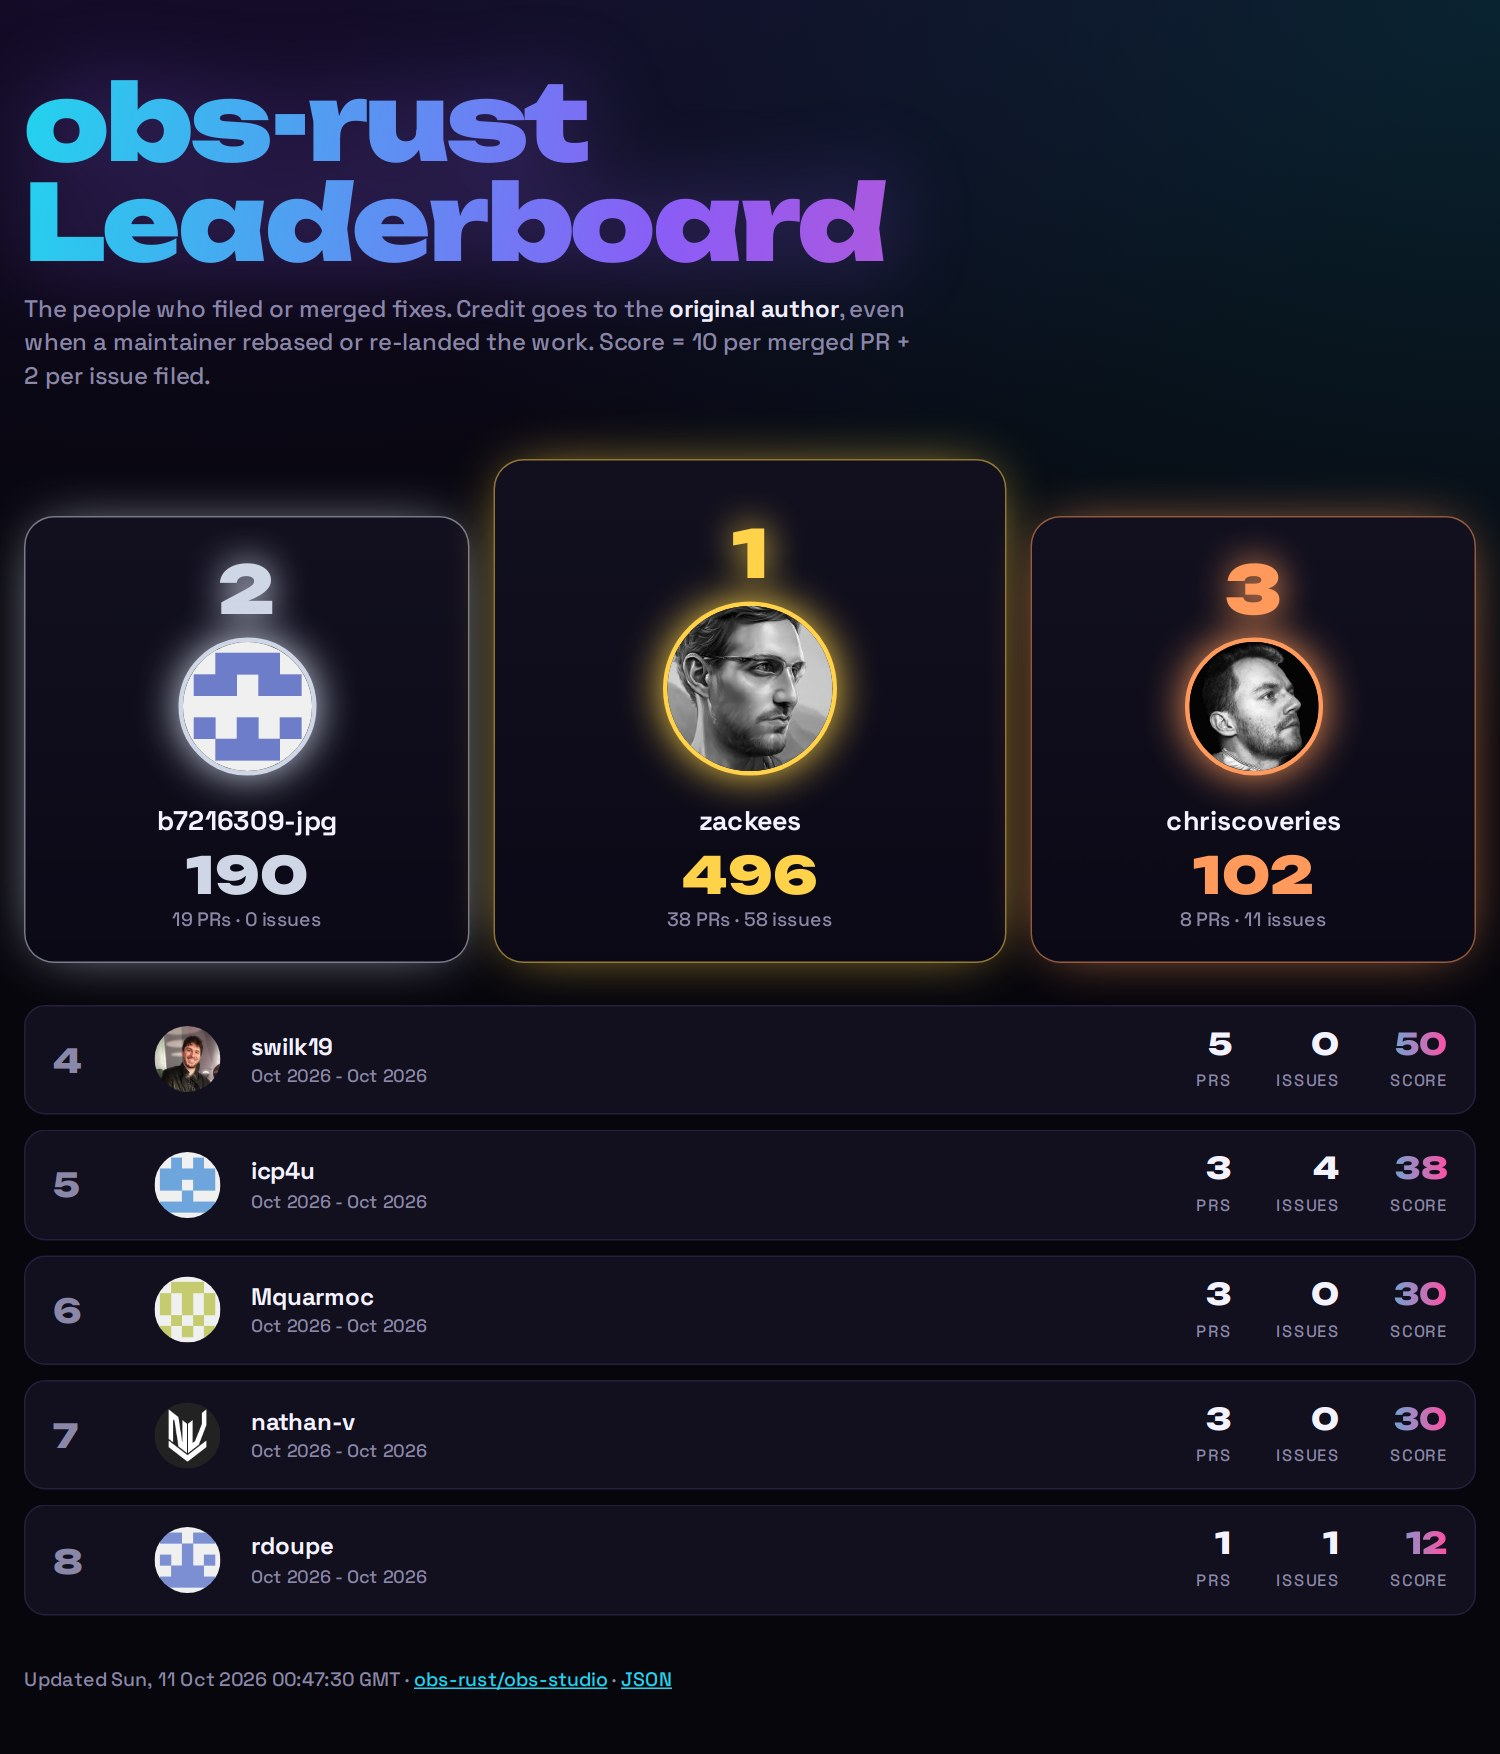
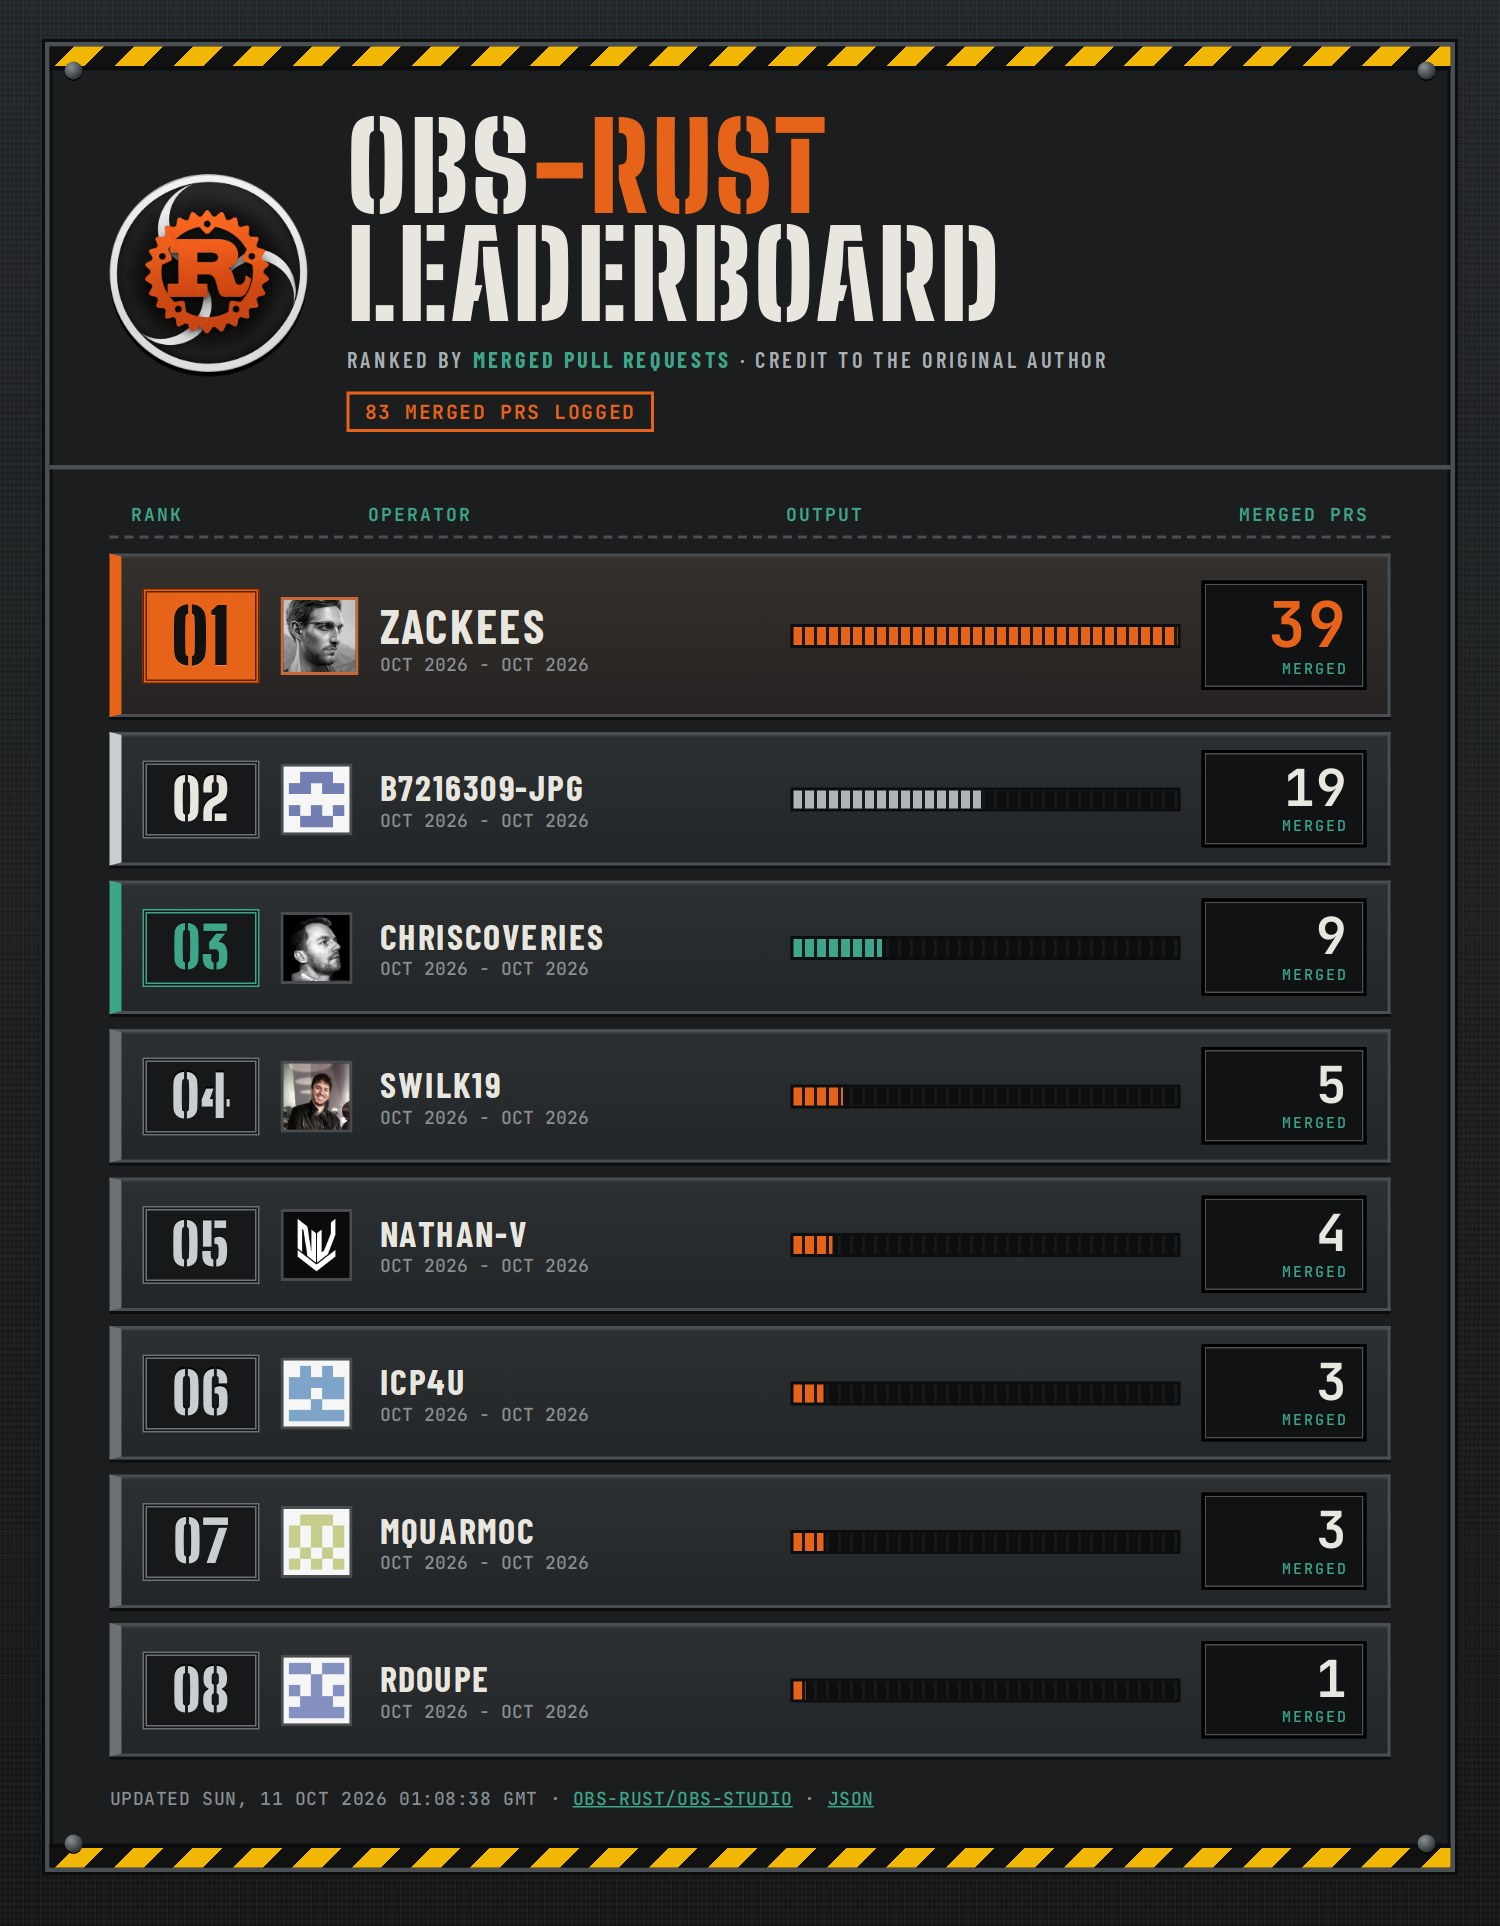
leaderboard: update 2026-10-11

diff --git a/index.html b/index.html
@@ -3,68 +3,90 @@
 <head>
 <meta charset="utf-8">
 <meta name="viewport" content="width=device-width,initial-scale=1">
-<title>obs-rust Contributor Leaderboard</title>
+<title>obs-rust Leaderboard</title>
+<link rel="icon" href="logo.png">
 <link rel="preconnect" href="https://fonts.googleapis.com">
 <link rel="preconnect" href="https://fonts.gstatic.com" crossorigin>
-<link href="https://fonts.googleapis.com/css2?family=Space+Grotesk:wght@500;700&family=Unbounded:wght@800;900&display=swap" rel="stylesheet">
+<link href="https://fonts.googleapis.com/css2?family=Big+Shoulders+Stencil+Display:wght@800;900&family=Barlow+Condensed:wght@500;600;700&family=JetBrains+Mono:wght@500;700&display=swap" rel="stylesheet">
 <style>
-:root{--bg:#07060d;--fg:#f4f2ff;--mut:#8b87a8;--card:#12101f;--line:#251f3d;--gold:#ffd24a;--silver:#cfd6e6;--bronze:#ff9a5c;--a:#8b5cf6;--b:#22d3ee;--c:#ff4fa3}
+:root{--steel:#1b1d1f;--steel2:#232628;--plate:#2c3033;--edge:#4a4f53;--hi:#6b7176;--fg:#e9e6df;--rust:#e8631a;--rust2:#b9480f;--cu:#3fa58a;--haz:#f2b705}
 *{box-sizing:border-box;margin:0}
-body{background:radial-gradient(900px 500px at 15% -10%,#3b1d7a55,transparent),radial-gradient(800px 500px at 100% 0,#0e749044,transparent),var(--bg);color:var(--fg);font:500 16px/1.4 "Space Grotesk",system-ui,sans-serif;min-height:100vh;padding:48px 16px 40px}
-main{max-width:980px;margin:auto}
-h1{font:900 clamp(34px,7vw,72px)/.95 Unbounded,sans-serif;letter-spacing:-.03em;background:linear-gradient(100deg,var(--b),var(--a) 45%,var(--c));-webkit-background-clip:text;background-clip:text;color:transparent;filter:drop-shadow(0 0 28px #8b5cf666)}
-.sub{color:var(--mut);margin:14px 0 44px;max-width:60ch}
-.sub b{color:var(--fg)}
-.podium{display:grid;grid-template-columns:1fr 1.15fr 1fr;gap:16px;align-items:end;margin-bottom:28px}
-.pod{position:relative;text-align:center;padding:26px 12px 18px;border-radius:20px;background:linear-gradient(180deg,var(--card),#0b0916);border:1px solid var(--line);animation:rise .8s cubic-bezier(.2,.9,.2,1) both;--g:var(--silver)}
-.pod.r1{--g:var(--gold);order:2;padding-top:40px}
-.pod.r2{order:1;--g:var(--silver);animation-delay:.15s}
-.pod.r3{order:3;--g:var(--bronze);animation-delay:.3s}
-.pod{border-color:color-mix(in srgb,var(--g) 55%,transparent);box-shadow:0 0 40px -14px var(--g)}
-.pod img{width:92px;height:92px;border-radius:50%;border:3px solid var(--g);box-shadow:0 0 28px var(--g);background:#222}
-.r1 img{width:116px;height:116px}
-.medal{font:900 44px Unbounded;color:var(--g);text-shadow:0 0 24px var(--g);line-height:1;margin-bottom:10px}
-.name{font:700 18px "Space Grotesk";margin-top:12px;word-break:break-all}
-.name a{color:inherit;text-decoration:none}
-.score{font:900 34px Unbounded;color:var(--g);margin-top:4px}
-.meta{color:var(--mut);font-size:13px}
-.list{display:grid;gap:10px}
-.row{display:grid;grid-template-columns:52px 48px 1fr auto auto auto;gap:16px;align-items:center;padding:12px 18px;border-radius:14px;background:var(--card);border:1px solid var(--line);animation:slide .6s ease both;transition:.2s}
-.row:hover{transform:translateX(6px);border-color:var(--a);box-shadow:0 0 24px -6px var(--a)}
-.rank{font:800 22px Unbounded;color:var(--mut)}
-.row img{width:44px;height:44px;border-radius:50%;background:#222}
-.row .who{font-weight:700;word-break:break-all}.row .who a{color:inherit;text-decoration:none}
-.row .when{color:var(--mut);font-size:12px}
-.num{text-align:right;min-width:56px}.num b{display:block;font:800 20px Unbounded}.num span{font-size:11px;color:var(--mut);text-transform:uppercase;letter-spacing:.08em}
-.num.s b{background:linear-gradient(90deg,var(--b),var(--c));-webkit-background-clip:text;background-clip:text;color:transparent}
-footer{margin-top:34px;color:var(--mut);font-size:13px}
-footer a{color:var(--b)}
-@keyframes rise{from{opacity:0;transform:translateY(40px) scale(.94)}}
-@keyframes slide{from{opacity:0;transform:translateX(-24px)}}
-@media(max-width:640px){.podium{grid-template-columns:1fr}.pod.r1{order:1}.pod.r2{order:2}.pod.r3{order:3}
-.row{grid-template-columns:34px 40px 1fr auto;gap:10px;padding:10px 12px}.row .num:not(.s){display:none}.rank{font-size:16px}}
-@media(prefers-reduced-motion:reduce){*{animation:none!important}}
+body{color:var(--fg);font:600 17px/1.35 "Barlow Condensed",sans-serif;letter-spacing:.02em;min-height:100vh;padding:28px 16px 36px;
+background:
+repeating-linear-gradient(90deg,rgba(255,255,255,.025) 0 1px,transparent 1px 3px),
+repeating-linear-gradient(0deg,rgba(0,0,0,.18) 0 1px,transparent 1px 4px),
+linear-gradient(180deg,#25282a,#17191a)}
+main{max-width:940px;margin:auto;border:3px solid var(--edge);background:var(--steel);box-shadow:0 0 0 2px #0c0d0e,inset 0 0 0 2px #0c0d0e;position:relative;padding:0 0 22px}
+.rv{position:absolute;width:12px;height:12px;border-radius:50%;background:radial-gradient(circle at 35% 30%,#8a9095,#33373a 70%);box-shadow:0 1px 0 #000}
+.rv.a{top:10px;left:10px}.rv.b{top:10px;right:10px}.rv.c{bottom:10px;left:10px}.rv.d{bottom:10px;right:10px}
+.haz{height:16px;background:repeating-linear-gradient(-45deg,var(--haz) 0 14px,#111 14px 28px);border-bottom:3px solid #0c0d0e}
+.haz.bot{border:0;border-top:3px solid #0c0d0e;margin-top:22px;margin-bottom:-22px}
+header{display:flex;align-items:center;gap:26px;padding:28px 40px 22px;border-bottom:3px solid var(--edge)}
+header img{width:132px;height:132px;flex:none;filter:drop-shadow(0 3px 0 #000)}
+h1{font:900 clamp(38px,8vw,80px)/.9 "Big Shoulders Stencil Display",sans-serif;text-transform:uppercase;letter-spacing:.03em;color:var(--fg)}
+h1 em{font-style:normal;color:var(--rust)}
+.sub{margin-top:10px;color:#a9aeb2;text-transform:uppercase;letter-spacing:.14em;font-size:15px}
+.sub b{color:var(--cu)}
+.tag{display:inline-block;margin-top:12px;padding:3px 10px;border:2px solid var(--rust);color:var(--rust);font:700 13px "JetBrains Mono",monospace;letter-spacing:.08em;text-transform:uppercase}
+.board{padding:22px 40px 0;display:grid;gap:10px}
+.colh{display:grid;grid-template-columns:78px 52px 1fr 1fr 110px;gap:14px;font:700 12px "JetBrains Mono",monospace;color:var(--cu);text-transform:uppercase;letter-spacing:.14em;padding:0 14px 6px;border-bottom:2px dashed var(--edge)}
+.colh span:last-child{text-align:right}
+.row{display:grid;grid-template-columns:78px 52px 1fr 1fr 110px;gap:14px;align-items:center;padding:10px 14px;background:linear-gradient(180deg,var(--plate),var(--steel2));border:2px solid var(--edge);border-left:8px solid var(--hi);box-shadow:inset 0 1px 0 rgba(255,255,255,.08),0 2px 0 #0c0d0e}
+.row.r1{border-left-color:var(--rust);padding:16px 14px;background:linear-gradient(180deg,#34302d,#262322)}
+.row.r2{border-left-color:#c9ced1}.row.r3{border-left-color:var(--cu)}
+.plate{font:900 38px/1 "Big Shoulders Stencil Display",sans-serif;text-align:center;padding:4px 0;border:3px double var(--hi);color:#c9ced1;background:#16181a;text-shadow:0 -1px 0 #000}
+.r1 .plate{color:#111;background:var(--rust);border:3px double #5b2305;font-size:50px;text-shadow:0 1px 0 rgba(255,255,255,.25)}
+.r2 .plate{color:var(--fg)}.r3 .plate{color:var(--cu);border-color:var(--cu)}
+.row img{width:48px;height:48px;border:2px solid var(--edge);background:#111;filter:grayscale(.35) contrast(1.05)}
+.r1 img{width:52px;height:52px;border-color:var(--rust)}
+.who{font:700 24px "Barlow Condensed";text-transform:uppercase;letter-spacing:.05em;word-break:break-all}
+.who a{color:inherit;text-decoration:none}.who a:hover{color:var(--rust)}
+.r1 .who{font-size:32px}
+.when{font:500 12px "JetBrains Mono",monospace;color:#8a8f93;text-transform:uppercase}
+.gauge{height:16px;background:repeating-linear-gradient(90deg,#0d0e0f 0 6px,#17191a 6px 8px);border:2px solid #0c0d0e;position:relative}
+.gauge i{position:absolute;inset:0 auto 0 0;background:repeating-linear-gradient(90deg,var(--rust) 0 6px,transparent 6px 8px)}
+.r2 .gauge i,.r3 .gauge i{background:repeating-linear-gradient(90deg,#aeb4b8 0 6px,transparent 6px 8px)}
+.r3 .gauge i{background:repeating-linear-gradient(90deg,var(--cu) 0 6px,transparent 6px 8px)}
+.cnt{text-align:right;font:700 34px/1 "JetBrains Mono",monospace;color:var(--fg);background:#101213;border:2px solid #000;padding:6px 10px;box-shadow:inset 0 0 0 1px var(--edge);letter-spacing:.04em}
+.r1 .cnt{color:var(--rust);font-size:42px}
+.cnt small{display:block;font:500 10px "JetBrains Mono";color:var(--cu);letter-spacing:.14em;margin-top:2px}
+footer{padding:20px 40px 0;font:500 12px "JetBrains Mono",monospace;color:#8a8f93;text-transform:uppercase;letter-spacing:.06em}
+footer a{color:var(--cu)}
+@media(max-width:640px){header{padding:24px 22px 18px;gap:16px;flex-direction:column;align-items:flex-start}header img{width:96px;height:96px}
+.board{padding:18px 16px 0}.colh{display:none}
+.row{grid-template-columns:52px 42px 1fr 74px;gap:10px;padding:8px}.row .meter{display:none}.plate{font-size:28px}.r1 .plate{font-size:34px}
+.row img{width:40px;height:40px}.who{font-size:19px}.r1 .who{font-size:23px}.cnt{font-size:24px;padding:4px 6px}.r1 .cnt{font-size:28px}footer{padding:18px 16px 0}}
 </style>
 </head>
 <body>
 <main>
-<h1>obs-rust<br>Leaderboard</h1>
-<p class="sub">The people who filed or merged fixes. Credit goes to the <b>original author</b>, even when a maintainer rebased or re-landed the work. Score = <span id="w"></span>.</p>
-<section class="podium" id="podium"></section>
-<section class="list" id="list"></section>
+<i class="rv a"></i><i class="rv b"></i><i class="rv c"></i><i class="rv d"></i>
+<div class="haz"></div>
+<header>
+<img src="logo.png" alt="obs-rust logo">
+<div>
+<h1>obs<em>-rust</em><br>Leaderboard</h1>
+<p class="sub">Ranked by <b>merged pull requests</b> &middot; credit to the original author</p>
+<span class="tag" id="tot">Loading...</span>
+</div>
+</header>
+<section class="board">
+<div class="colh"><span>Rank</span><span></span><span>Operator</span><span>Output</span><span>Merged PRs</span></div>
+<div id="list" style="display:grid;gap:10px"></div>
+</section>
 <footer id="foot"></footer>
+<div class="haz bot"></div>
 </main>
 <script>
 (async()=>{
 const esc=s=>String(s).replace(/[&<>"]/g,c=>({"&":"&amp;","<":"&lt;",">":"&gt;",'"':"&quot;"}[c]));
 let d;try{d=await (await fetch("leaderboard.json",{cache:"no-store"})).json()}catch(e){document.getElementById("foot").textContent="Could not load leaderboard.json";return}
-const C=d.contributors,w=d.weights;
-document.getElementById("w").textContent=w.merged_pr+" per merged PR + "+w.issue_filed+" per issue filed";
+const C=[...d.contributors].sort((a,b)=>a.rank-b.rank),max=Math.max(1,...C.map(c=>c.merged_prs));
 const fmt=s=>new Date(s).toLocaleDateString("en",{month:"short",year:"numeric"});
 const gh=l=>"https://github.com/"+encodeURIComponent(l);
-document.getElementById("podium").innerHTML=C.slice(0,3).map(c=>`<div class="pod r${c.rank}"><div class="medal">${c.rank}</div><img src="${esc(c.avatar_url)}" alt=""><div class="name"><a href="${gh(c.login)}">${esc(c.login)}</a></div><div class="score">${c.score}</div><div class="meta">${c.merged_prs} PRs · ${c.issues_filed} issues</div></div>`).join("");
-document.getElementById("list").innerHTML=C.slice(3).map((c,i)=>`<div class="row" style="animation-delay:${.4+i*.07}s"><div class="rank">${c.rank}</div><img src="${esc(c.avatar_url)}" alt=""><div><div class="who"><a href="${gh(c.login)}">${esc(c.login)}</a></div><div class="when">${fmt(c.first_contribution)} - ${fmt(c.last_contribution)}</div></div><div class="num"><b>${c.merged_prs}</b><span>PRs</span></div><div class="num"><b>${c.issues_filed}</b><span>Issues</span></div><div class="num s"><b>${c.score}</b><span>Score</span></div></div>`).join("");
-document.getElementById("foot").innerHTML=`Updated ${new Date(d.generated_at).toUTCString()} · <a href="https://github.com/${esc(d.repo)}">${esc(d.repo)}</a> · <a href="leaderboard.json">JSON</a>`;
+document.getElementById("tot").textContent=(d.merged_pr_total||C.reduce((a,c)=>a+c.merged_prs,0))+" merged PRs logged";
+document.getElementById("list").innerHTML=C.map(c=>`<div class="row r${c.rank}"><div class="plate">${String(c.rank).padStart(2,"0")}</div><img src="${esc(c.avatar_url)}" alt=""><div><div class="who"><a href="${gh(c.login)}">${esc(c.login)}</a></div><div class="when">${fmt(c.first_contribution)} - ${fmt(c.last_contribution)}</div></div><div class="meter"><div class="gauge"><i style="width:${Math.round(100*c.merged_prs/max)}%"></i></div></div><div class="cnt">${c.merged_prs}<small>MERGED</small></div></div>`).join("");
+document.getElementById("foot").innerHTML=`Updated ${new Date(d.generated_at).toUTCString()} &middot; <a href="https://github.com/${esc(d.repo)}">${esc(d.repo)}</a> &middot; <a href="leaderboard.json">JSON</a>`;
 document.body.dataset.ready="1";
 })();
 </script>
